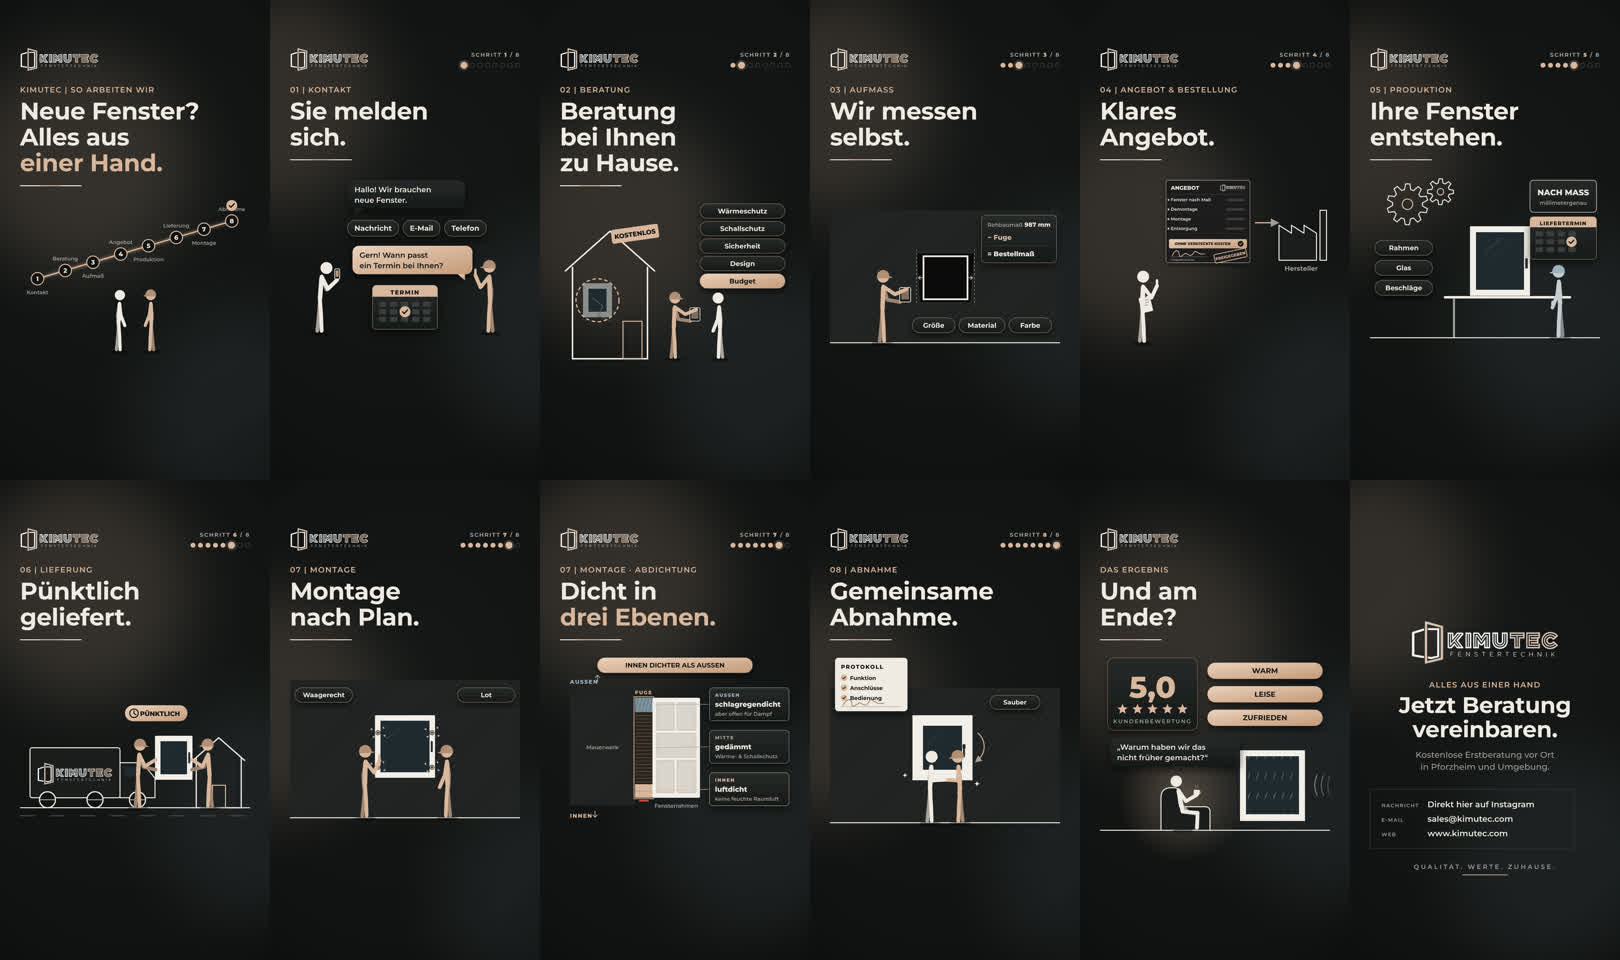
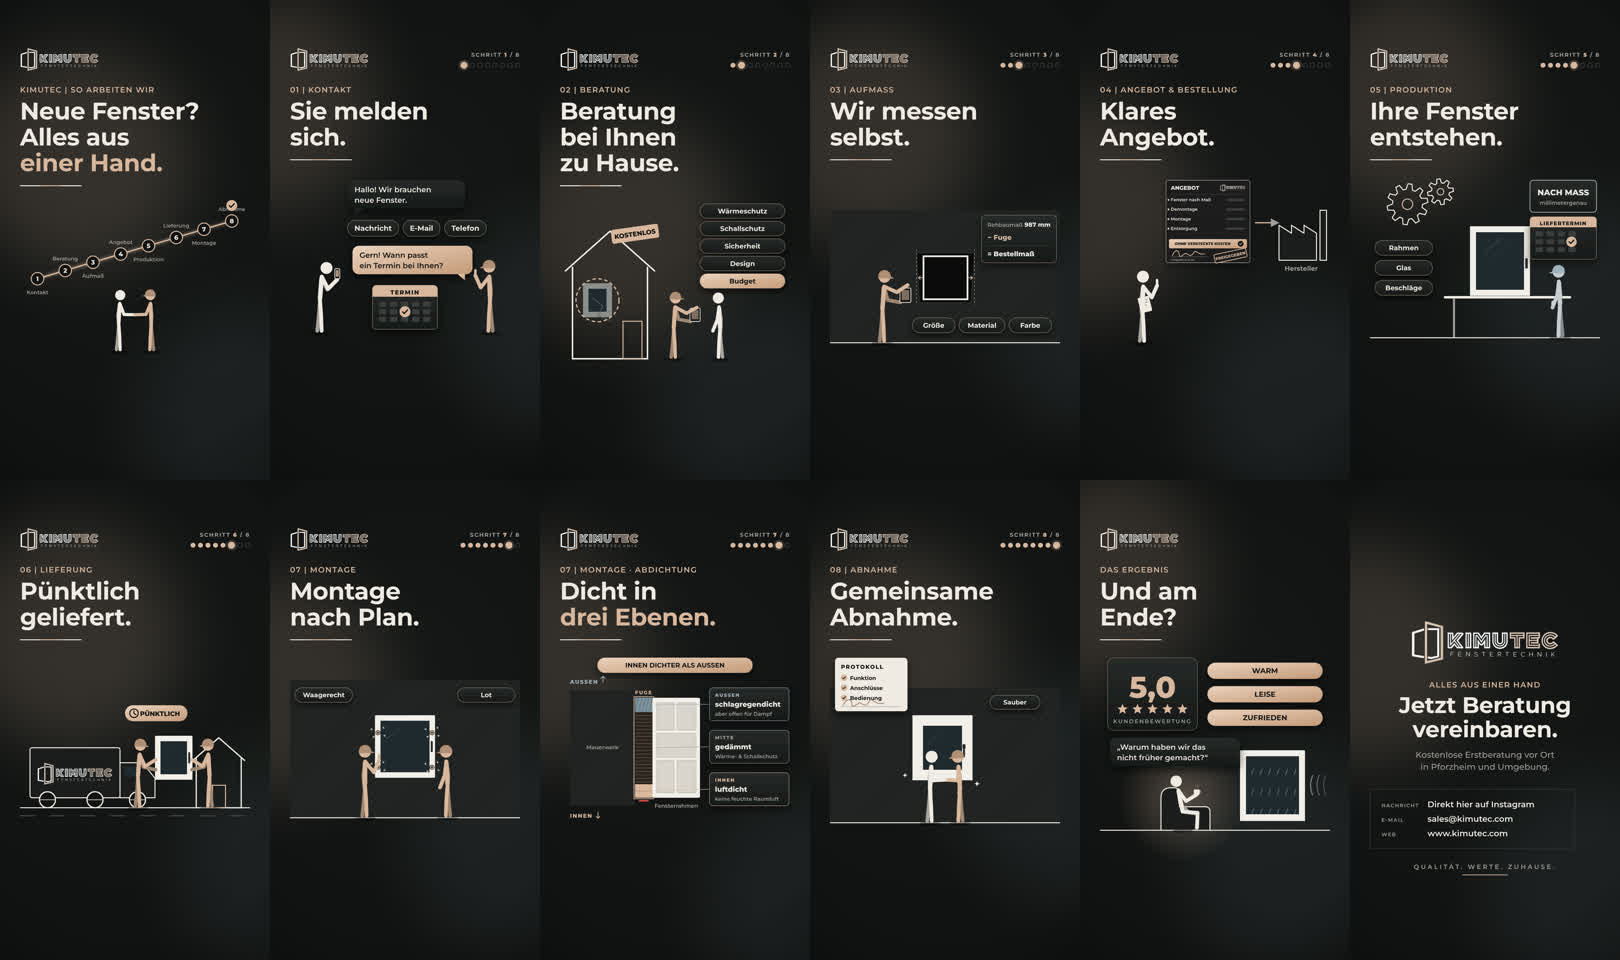
Reel 9 Version 2 fertig: ElevenLabs-Stimme eingebaut, Pausen gekürzt (2:57 min)
Claude-Session: https://claude.ai/code/session_01MaL2HrYm8BMGeDMzBxDfpx

diff --git a/reels/projekte/09-ablauf/bauen.py b/reels/projekte/09-ablauf/bauen.py
@@ -420,25 +420,25 @@ TEXT = {
 db = {
     "titel": "KIMUTEC – So arbeiten wir: vom Kontakt bis zur Abnahme",
     "fps": 30,
-    "stimme": "elevenlabs", "tonOrdner": "ton",
+    "stimme": "elevenlabs", "tonOrdner": "ton", "sprechStart": 0.2,
     "elevenlabs": {"voice_id": "5KvpaGteYkNayiswuX2h", "model_id": "eleven_multilingual_v2",
                    "voice_settings": {"stability": 0.6, "similarity_boost": 0.75, "style": 0.0, "use_speaker_boost": True, "speed": 1.0}},
     "aussprache": {"kimutec.com": "Kimutek Punkt com", "KIMUTEC": "Kimutek"},
     "szenen": [
-        {"label": "KIMUTEC | So arbeiten wir", "titel": "Neue Fenster?\nAlles aus\n<em>einer Hand.</em>", "bildHoehe": 600, "bild": b1, "sprecher": TEXT[1], "pause": 1.0},
-        {"label": "01 | Kontakt", "titel": "Sie melden\nsich.", "schritt": 1, "bildHoehe": 640, "bild": b2, "sprecher": TEXT[2], "pause": 1.0},
-        {"label": "02 | Beratung", "titel": "Beratung\nbei Ihnen\nzu Hause.", "schritt": 2, "bildHoehe": 640, "bild": b3, "sprecher": TEXT[3], "pause": 0.9},
-        {"label": "03 | Aufmaß", "titel": "Wir messen\nselbst.", "schritt": 3, "bildHoehe": 680, "bild": b4, "sprecher": TEXT[4], "pause": 1.0},
-        {"label": "04 | Angebot & Bestellung", "titel": "Klares\nAngebot.", "schritt": 4, "bildHoehe": 680, "bild": b5, "sprecher": TEXT[5], "pause": 1.7},
-        {"label": "05 | Produktion", "titel": "Ihre Fenster\nentstehen.", "schritt": 5, "bildHoehe": 660, "bild": b6, "sprecher": TEXT[6], "pause": 1.0},
-        {"label": "06 | Lieferung", "titel": "Pünktlich\ngeliefert.", "schritt": 6, "bildHoehe": 650, "bild": b7, "sprecher": TEXT[7], "pause": 2.2},
-        {"label": "07 | Montage", "titel": "Montage\nnach Plan.", "schritt": 7, "bildHoehe": 660, "bild": b8, "sprecher": TEXT[8], "pause": 1.9},
-        {"label": "07 | Montage · Abdichtung", "titel": "Dicht in\n<em>drei Ebenen.</em>", "schritt": 7, "bildHoehe": 700, "bild": b9, "sprecher": TEXT[9], "pause": 1.4},
-        {"label": "08 | Abnahme", "titel": "Gemeinsame\nAbnahme.", "schritt": 8, "bildHoehe": 680, "bild": b10, "sprecher": TEXT[10], "pause": 3.3},
-        {"label": "Das Ergebnis", "titel": "Und am\nEnde?", "bildHoehe": 700, "bild": b11, "sprecher": TEXT[11], "pause": 1.4},
+        {"label": "KIMUTEC | So arbeiten wir", "titel": "Neue Fenster?\nAlles aus\n<em>einer Hand.</em>", "bildHoehe": 600, "bild": b1, "sprecher": TEXT[1], "pause": 0.5},
+        {"label": "01 | Kontakt", "titel": "Sie melden\nsich.", "schritt": 1, "bildHoehe": 640, "bild": b2, "sprecher": TEXT[2], "pause": 0.5},
+        {"label": "02 | Beratung", "titel": "Beratung\nbei Ihnen\nzu Hause.", "schritt": 2, "bildHoehe": 640, "bild": b3, "sprecher": TEXT[3], "pause": 0.5},
+        {"label": "03 | Aufmaß", "titel": "Wir messen\nselbst.", "schritt": 3, "bildHoehe": 680, "bild": b4, "sprecher": TEXT[4], "pause": 0.6},
+        {"label": "04 | Angebot & Bestellung", "titel": "Klares\nAngebot.", "schritt": 4, "bildHoehe": 680, "bild": b5, "sprecher": TEXT[5], "pause": 1.3},
+        {"label": "05 | Produktion", "titel": "Ihre Fenster\nentstehen.", "schritt": 5, "bildHoehe": 660, "bild": b6, "sprecher": TEXT[6], "pause": 0.6},
+        {"label": "06 | Lieferung", "titel": "Pünktlich\ngeliefert.", "schritt": 6, "bildHoehe": 650, "bild": b7, "sprecher": TEXT[7], "pause": 1.6},
+        {"label": "07 | Montage", "titel": "Montage\nnach Plan.", "schritt": 7, "bildHoehe": 660, "bild": b8, "sprecher": TEXT[8], "pause": 1.4},
+        {"label": "07 | Montage · Abdichtung", "titel": "Dicht in\n<em>drei Ebenen.</em>", "schritt": 7, "bildHoehe": 700, "bild": b9, "sprecher": TEXT[9], "pause": 0.8},
+        {"label": "08 | Abnahme", "titel": "Gemeinsame\nAbnahme.", "schritt": 8, "bildHoehe": 680, "bild": b10, "sprecher": TEXT[10], "pause": 2.6},
+        {"label": "Das Ergebnis", "titel": "Und am\nEnde?", "bildHoehe": 700, "bild": b11, "sprecher": TEXT[11], "pause": 0.9},
         {"art": "abschluss", "label": "Alles aus einer Hand", "titel": "Jetzt Beratung\nvereinbaren.", "unter": "Kostenlose Erstberatung vor Ort\nin Pforzheim und Umgebung.",
          "kontakt": {"zeilen": [["NACHRICHT", "Direkt hier auf Instagram"], ["E-MAIL", "sales@kimutec.com"], ["WEB", "www.kimutec.com"]]},
-         "motto": "QUALITÄT. WERTE. ZUHAUSE.", "sprecher": TEXT[12], "pause": 1.6},
+         "motto": "QUALITÄT. WERTE. ZUHAUSE.", "sprecher": TEXT[12], "pause": 1.2},
     ]}
 
 # Kontrolle: Sprechertext ohne Marken muss dem freigegebenen Text entsprechen (Ansagen wurden damit erzeugt)

diff --git a/reels/UEBERGABE.md b/reels/UEBERGABE.md
@@ -19,13 +19,12 @@ damit braucht ein neuer Chat keinen langen Übergabetext mehr: „/reel – mach
   Ordner `ton` zurückholen. Der ElevenLabs-Connector ist mit seinem Konto verbunden, seine Werkzeuge waren im Chat aber noch nicht geladen.
 - Für Werbung braucht ElevenLabs ein bezahltes Abo (kommerzielle Lizenz).
 
-## Offen
-- Die Stimme ist schon erzeugt: 2 Takes im ElevenLabs-Flow `7PpyR7Fh4dWC6YQZNVoa` (über den Connector, je 2.169 Zeichen).
-  **Nicht neu erzeugen.** Der Download von elevenlabsusercontent.com ist in der Cloud gesperrt: Ramiz schickt den besseren Take als MP3
-  oder erlaubt die Domain auf claude.ai unter Einstellungen > Capabilities.
-- Dann: `python3 reels/elevenlabs.py zerlegen <take.mp3> reels/projekte/09-ablauf/drehbuch.json` und
-  `node reels/render.mjs reels/projekte/09-ablauf/drehbuch.json` (mit `setsid nohup`, ca. 10–15 min).
-- Danach Ton mit `pruefe-ton.py` gegenlesen, Länge ≤ 3:00 prüfen (sonst Pausen kürzen), `instagram.txt` an Version 2 anpassen.
+## Stand
+- Reel 9 Version 2 ist fertig gerendert (2:57 min) mit dem ElevenLabs-Take „content_2.mp3“ (Flow `7PpyR7Fh4dWC6YQZNVoa`, 4 Takes,
+  zusammen 8.676 Zeichen verbraucht). Der Take wurde mit `elevenlabs.py zerlegen` in Szenen geschnitten (330 von 336 Wörtern zugeordnet).
+- Pausen zwischen den Szenen wurden gekürzt (`sprechStart` 0,2 s), damit das Reel unter 3:00 bleibt.
+- Tonprüfung: Text stimmt; „Kimutek“ hört die Spracherkennung als „Chemotec“ (macht sie bei jeder Stimme), „Montage“ in Szene 5 weich wie „Garage“.
+- Download von elevenlabsusercontent.com ist in der Cloud gesperrt – Ramiz schickt Takes als MP3 oder gibt die Domain frei.
 
 ## Weitere Reels im Repo
 - `06-aufmass-montage` – Nachbau von Reel 6 (Aufmaß und Montage).
